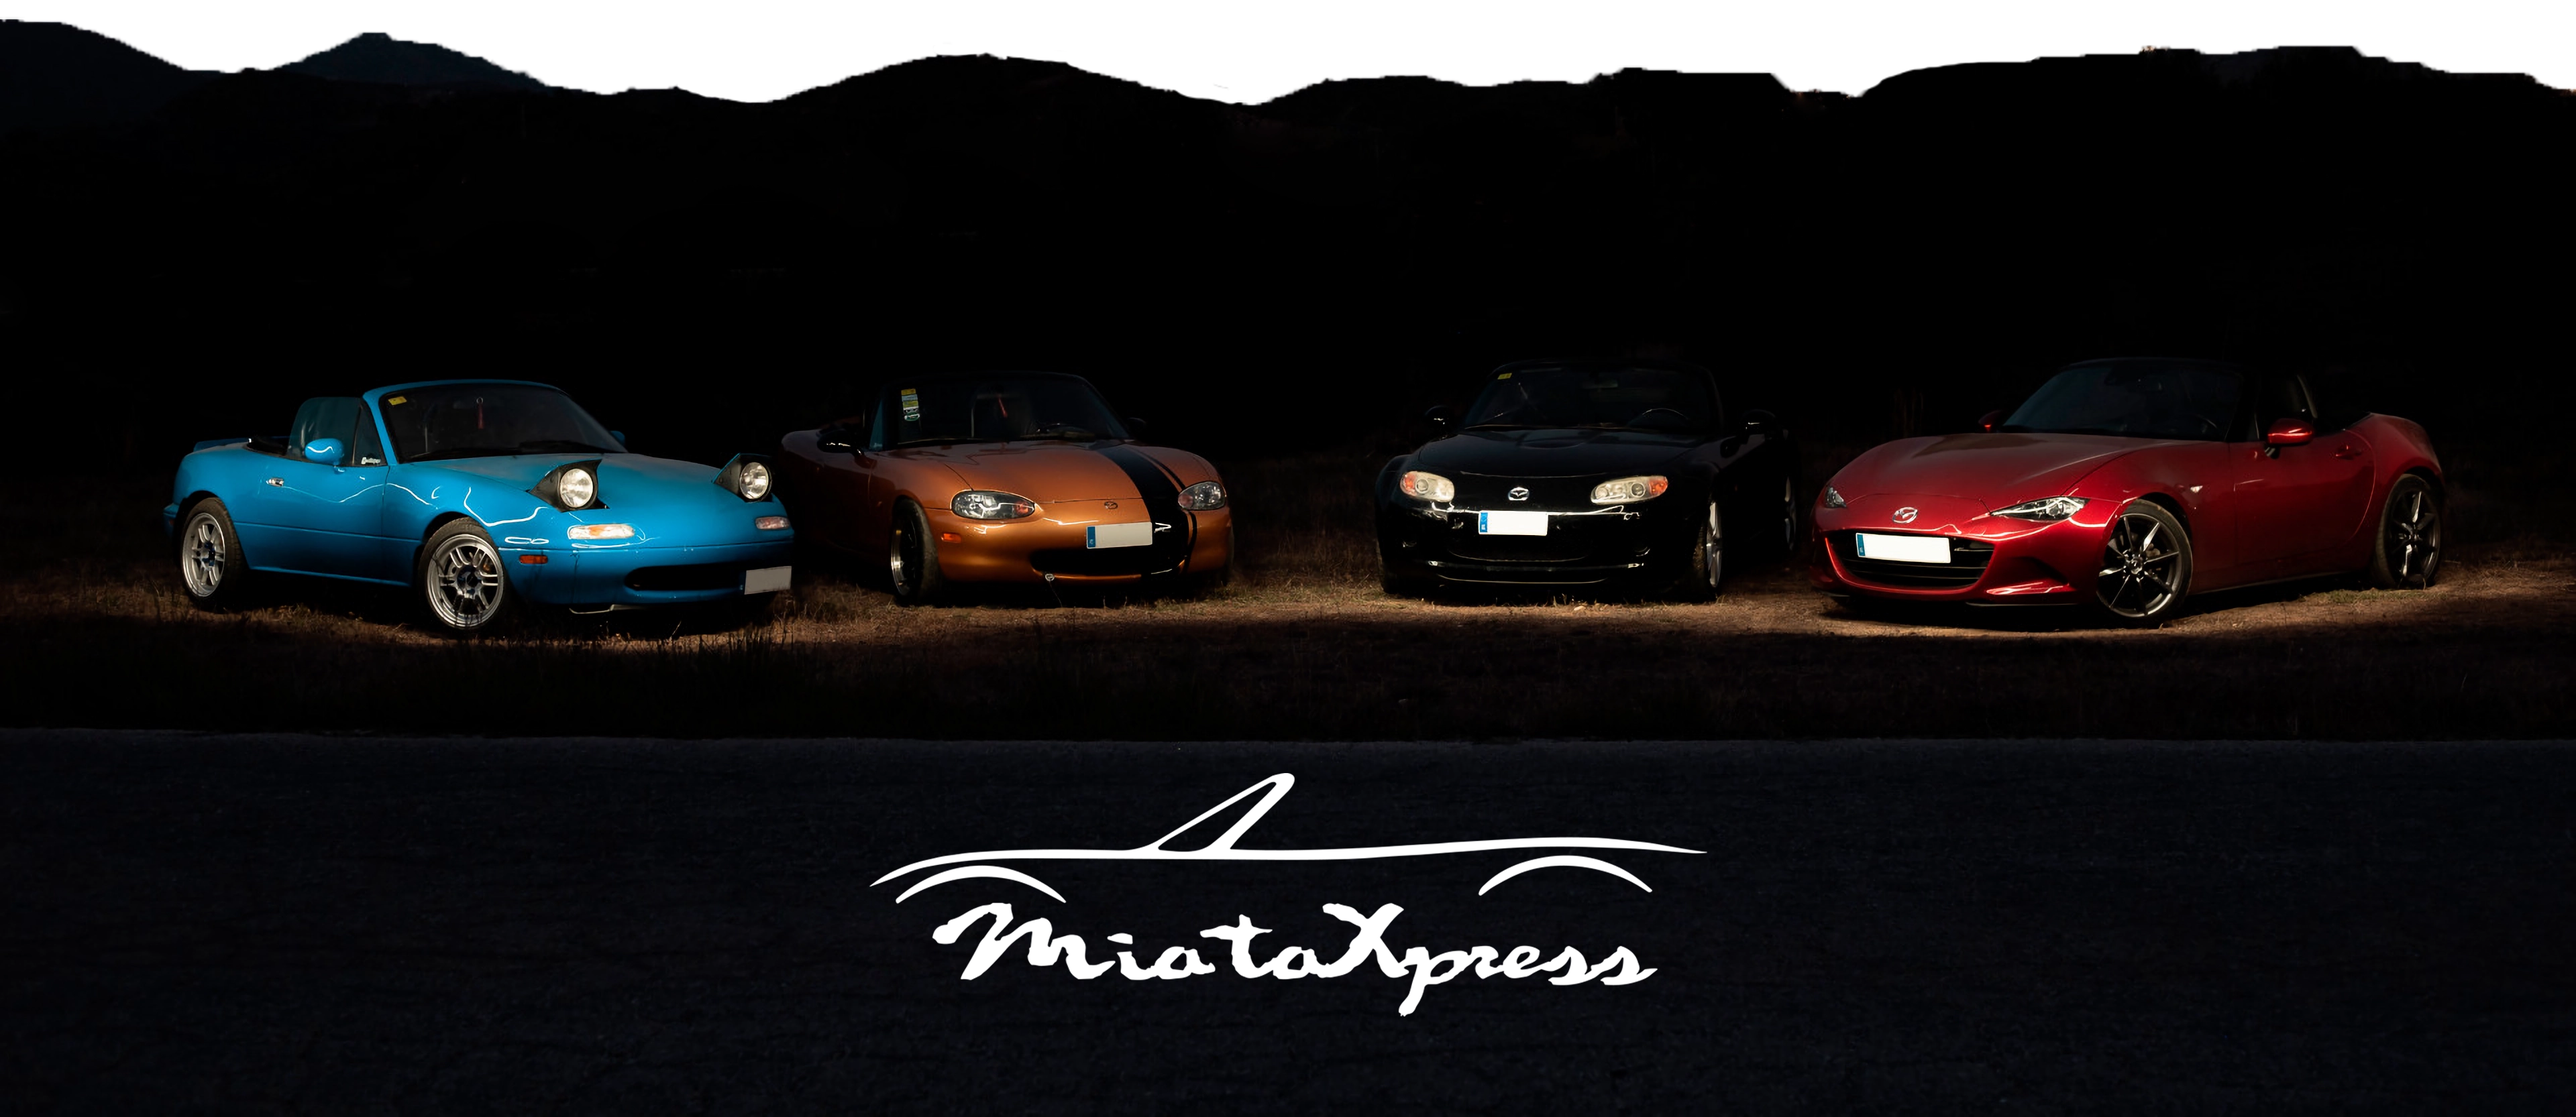
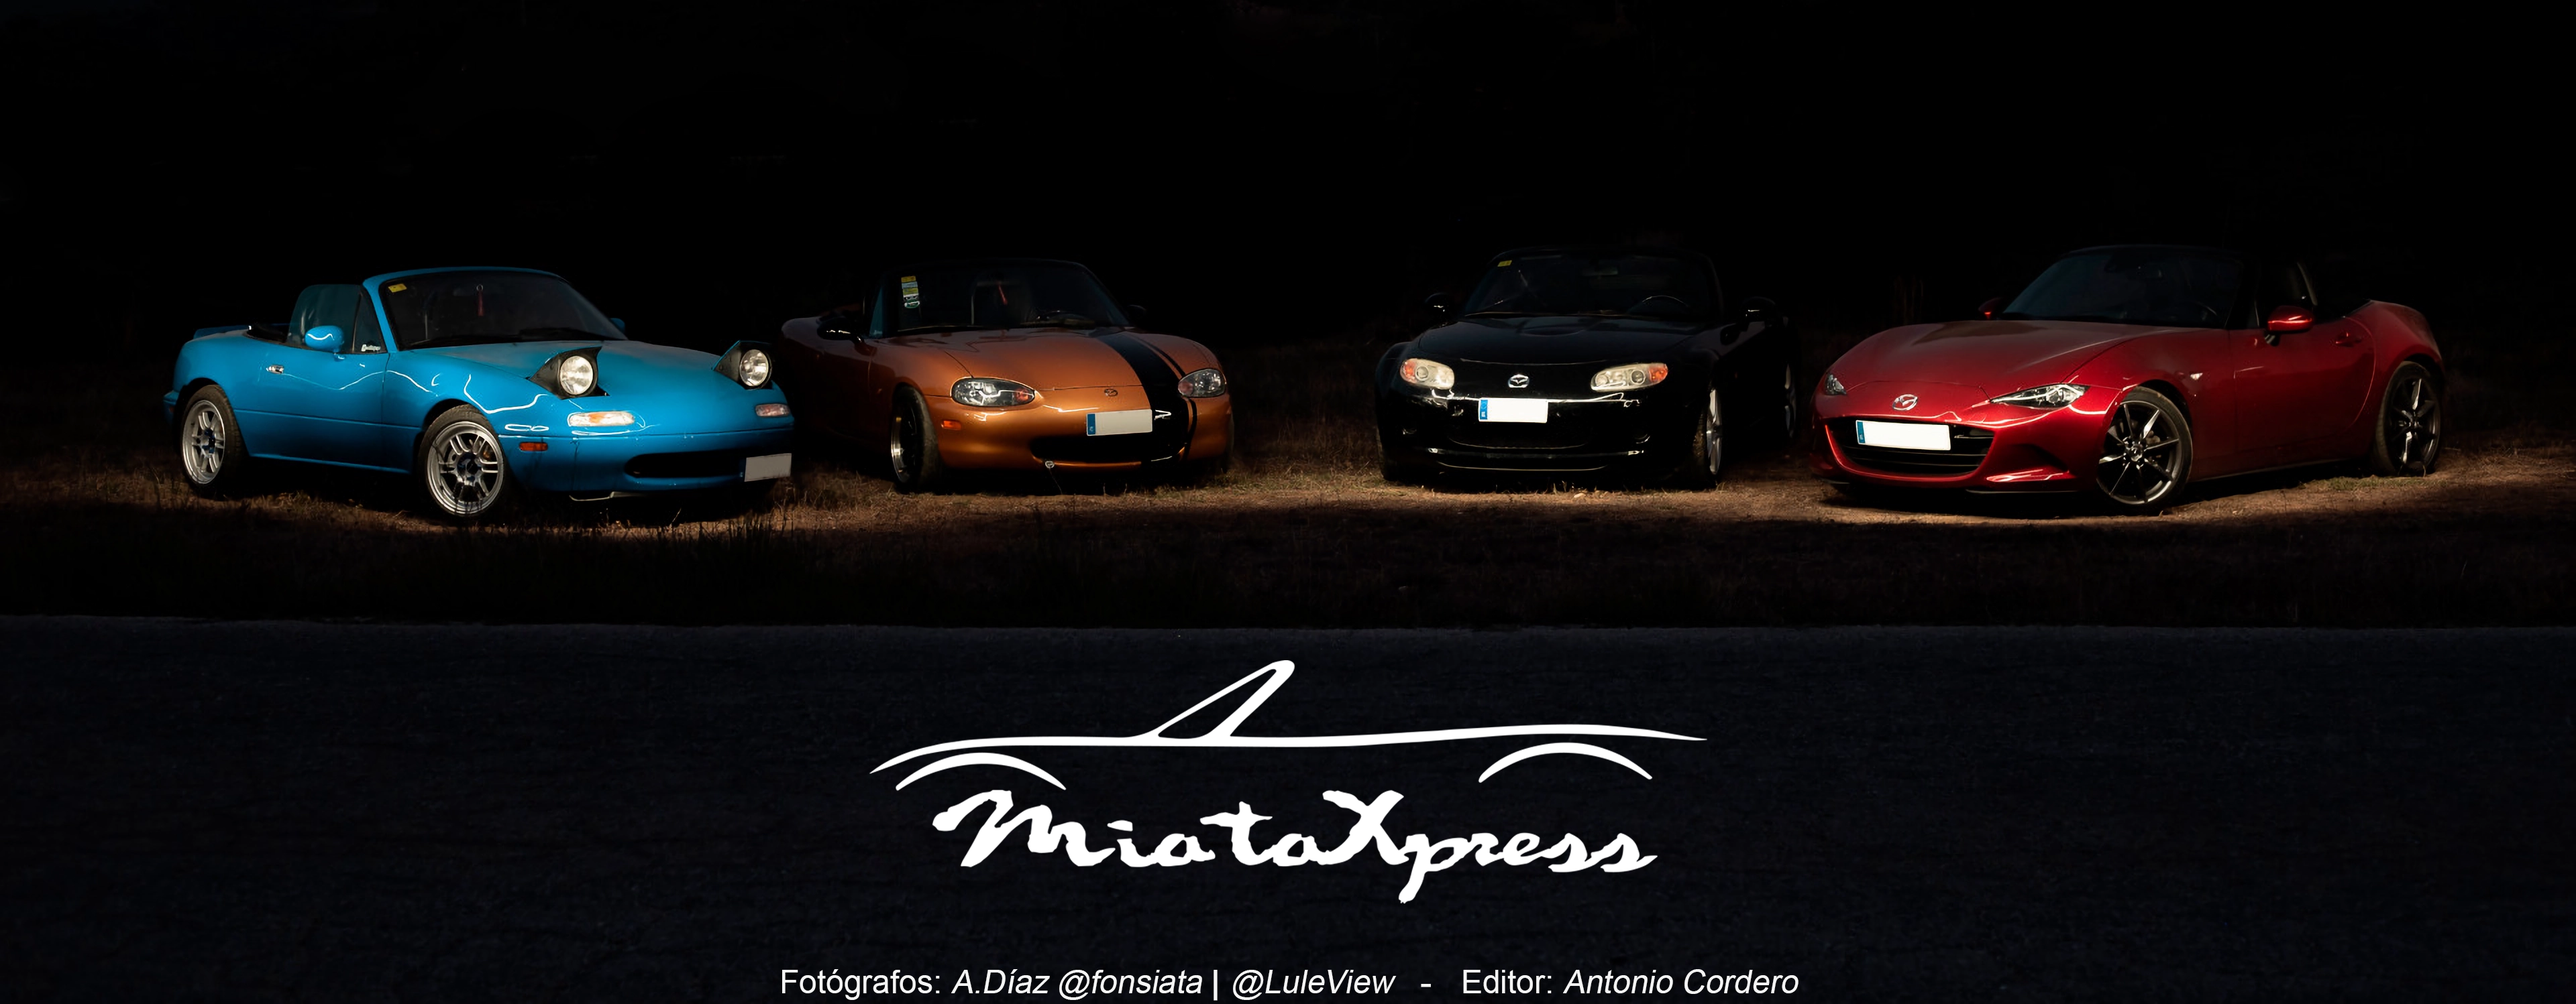
Mejora responsividad - 10/11/23

diff --git a/css/miataxpress.css b/css/miataxpress.css
@@ -48,7 +48,7 @@
     position: absolute;
     top: 30%;
     left: 25%;
-    transform: translate(-50%,-50%) ;
+    transform: translate(-50%,-50%);
 }
 
 .joinus {
@@ -195,14 +195,18 @@ p {
 
     
 /******************************** FOOTER *************************************/
+
 #footer {
-    background-image: url(../img/edits/miataxpress_footer_lightsoff.png);
-    background-size: contain;
-    background-position: center;
-    background-repeat: no-repeat;
-    padding: 50px 0;
     text-align: center;
-    color: #f5f5f5;
+    background-size: cover;
+    background-position: center;
+    position: relative;
+}
+
+#footer img {
+    width: 100%;
+    height: auto;
+    display: block;
 }
 
 /******************************* RESPONSIVE ***********************************/

diff --git a/miataxpress.html b/miataxpress.html
@@ -79,7 +79,12 @@
         
     </div>
 
-    <footer id="footer"></footer>
+    <footer id="footer">
+
+        <img src="./img/edits/miataxpress_footer.png" alt="MiataXpress Web Footer">
+    
+    </footer>
+    
 
 </body>
 </html>
